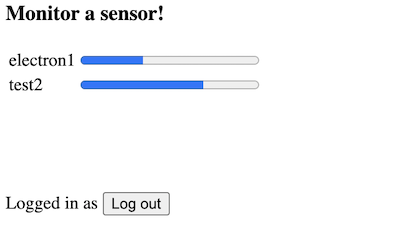
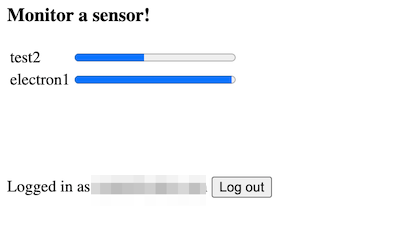
checkpoint
- still work in progress

diff --git a/src/assets/files/app-notes/AN032/SensorPage.htm b/src/assets/files/app-notes/AN032/SensorPage.htm
@@ -125,7 +125,10 @@
                 function (data) {
                     // Success! Show the main page
                     $('#mainDiv').css('display', 'inline');
+                    
+                    $('#userSpan').text(sessionStorage.particleUser);
 
+                    // Load the device selector popup
                     deviceList = data.body;
 
                     deviceIdToName = {};

diff --git a/src/content/datasheets/app-notes/an032-calling-api-from-web-page.md b/src/content/datasheets/app-notes/an032-calling-api-from-web-page.md
@@ -26,6 +26,7 @@ In this example we copy and paste our access token and device ID into the HTML s
 anyone can just "View Source" on the web page and get our access token. With that token, they can log into 
 the Console, manage devices, delete source code, pretty much everything. 
 
+{{codebox content="/assets/files/app-notes/AN032/embed-token.htm" format="html" height="300"}}
 
 If you are using source code management like Github, it's easy to accidentally share your account access 
 token if you paste it into your code and have to remove it every time you commit a change.
@@ -595,7 +596,9 @@ send up values when the value does not change. That would be a good enhancement.
 
 As you add new devices, new rows are added to the table. 
 
-As the values change, the progress bar updates within a second or two! This works for both cellular and Wi-Fi.
+As the values change, the progress bar updates. This works for both cellular and Wi-Fi. It's normally
+pretty fast, within a second or so, but if a cellular device has been idle for a while it may take
+longer for the first update (up to 10 seconds) but then subsequent updates will be much faster.
 
 Most of the code is the same as the login page example above, however:
 
